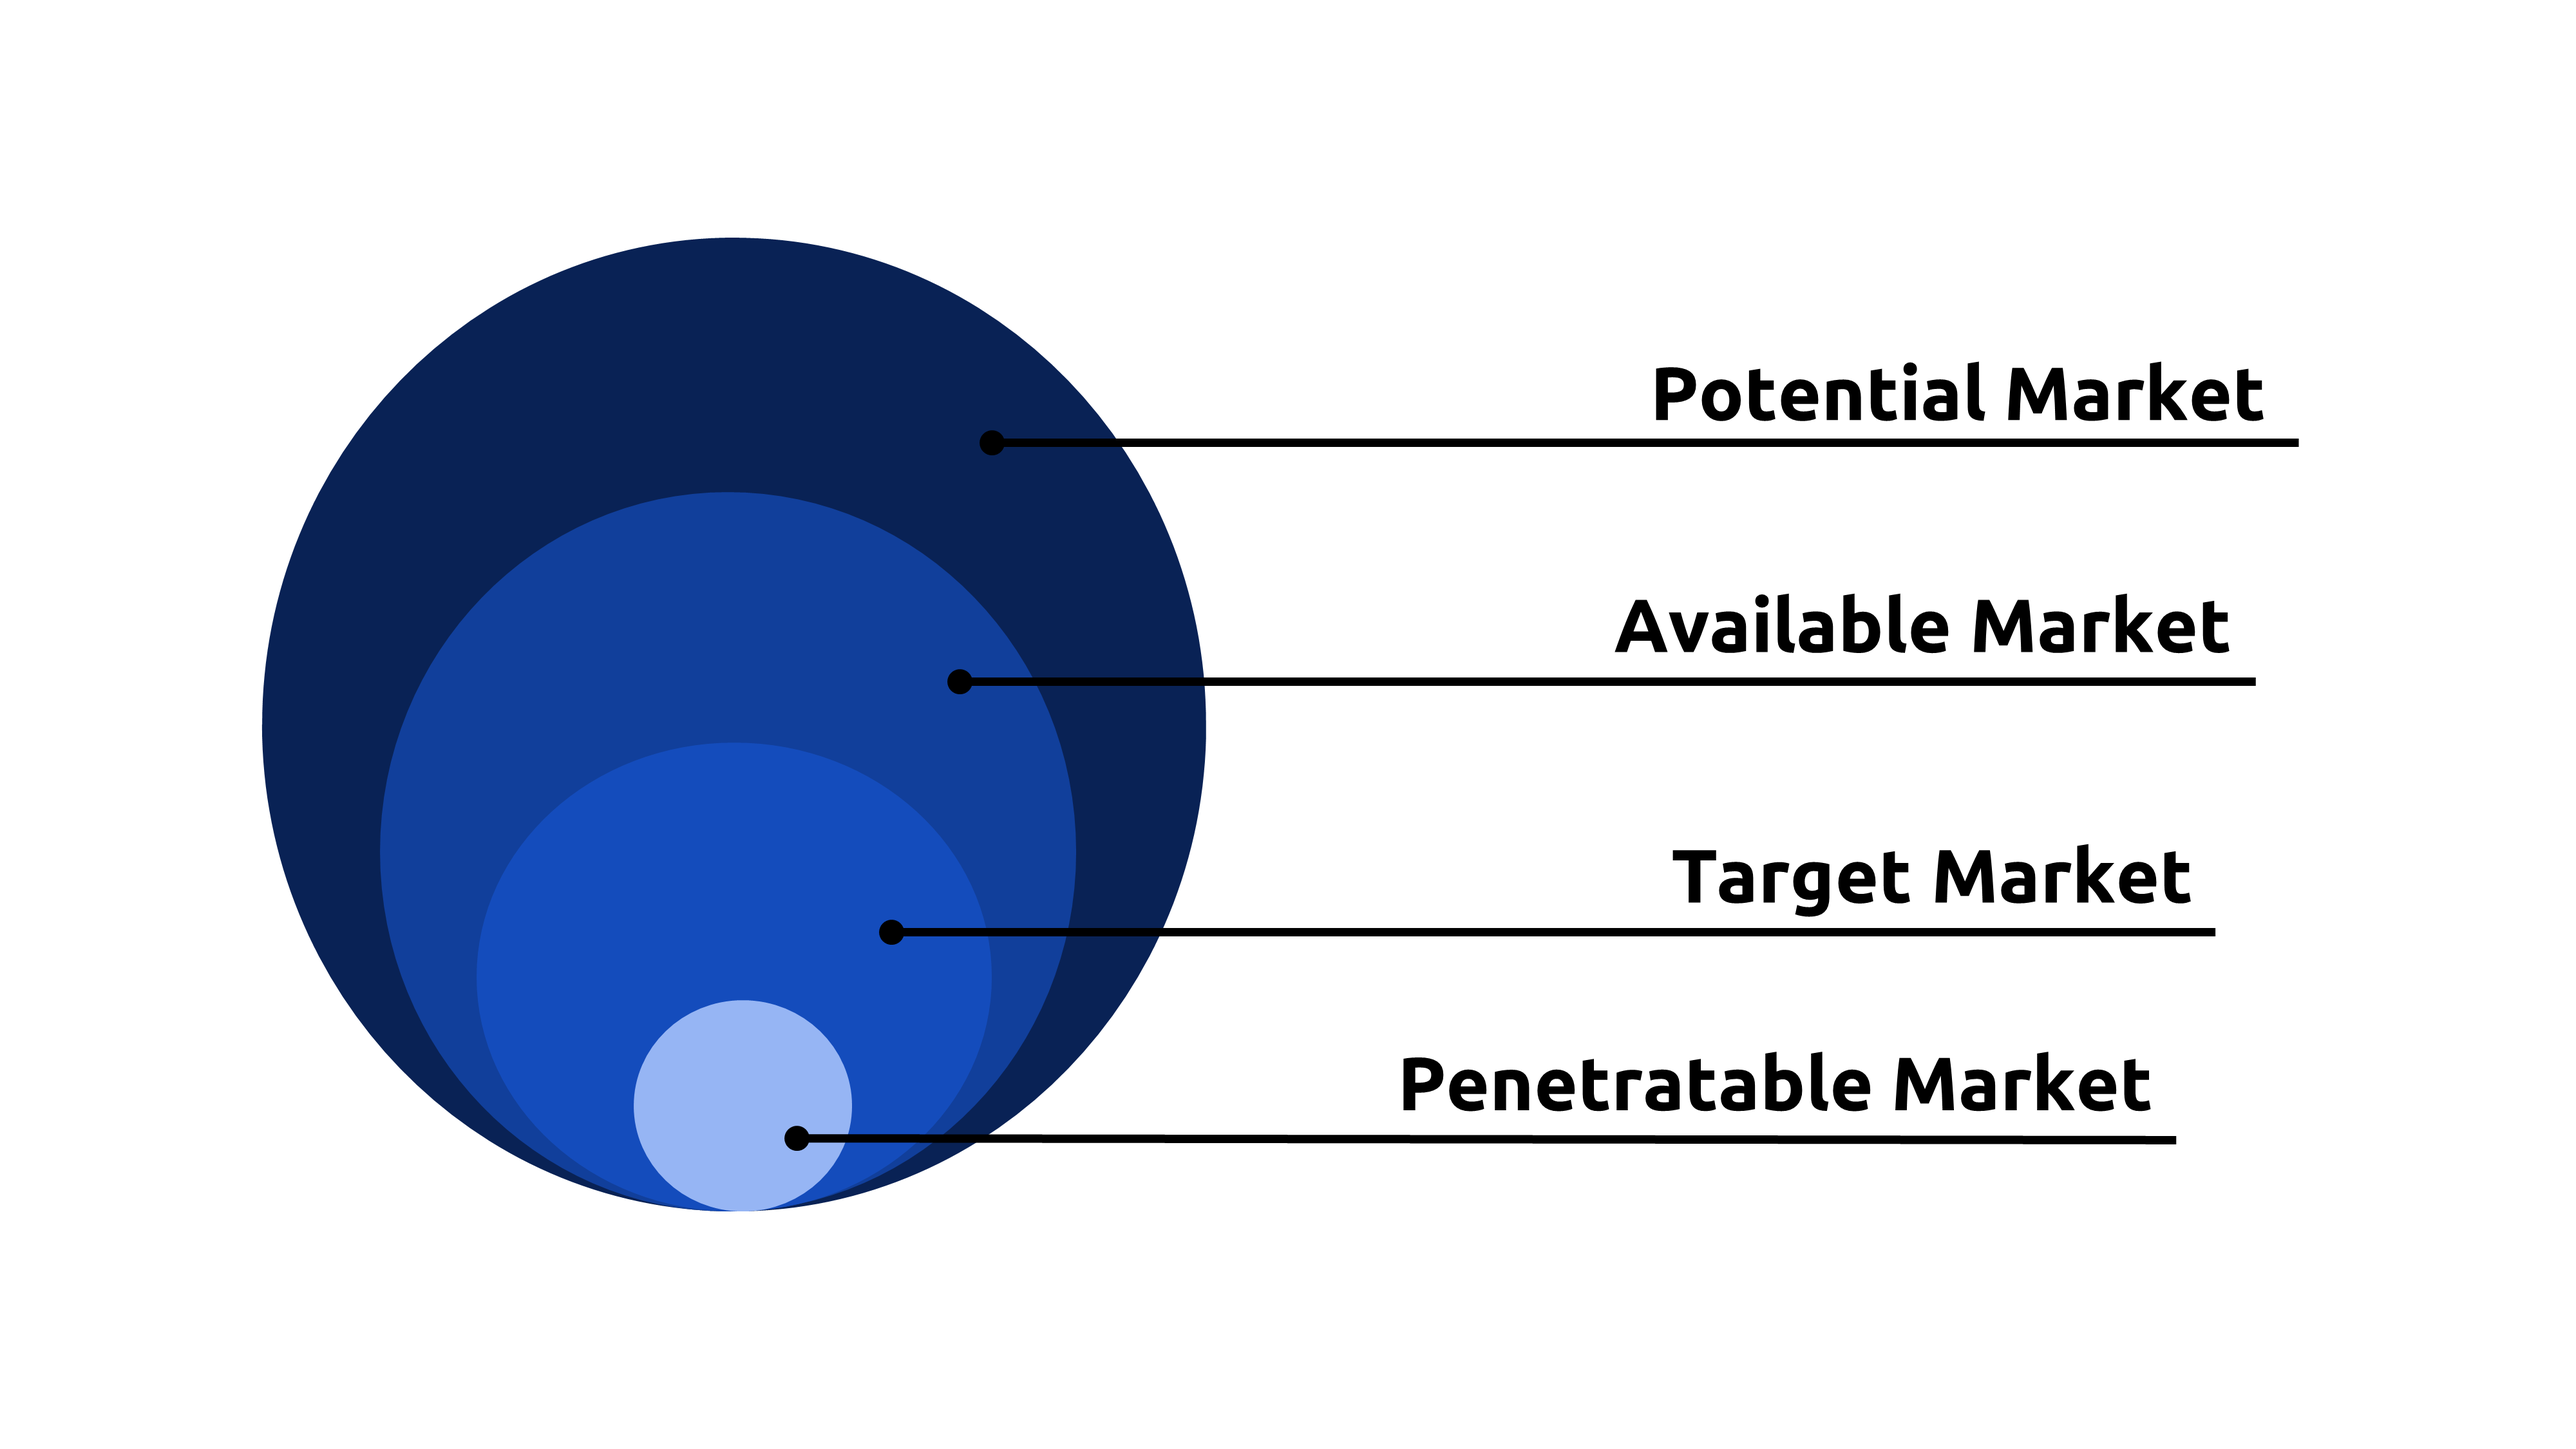
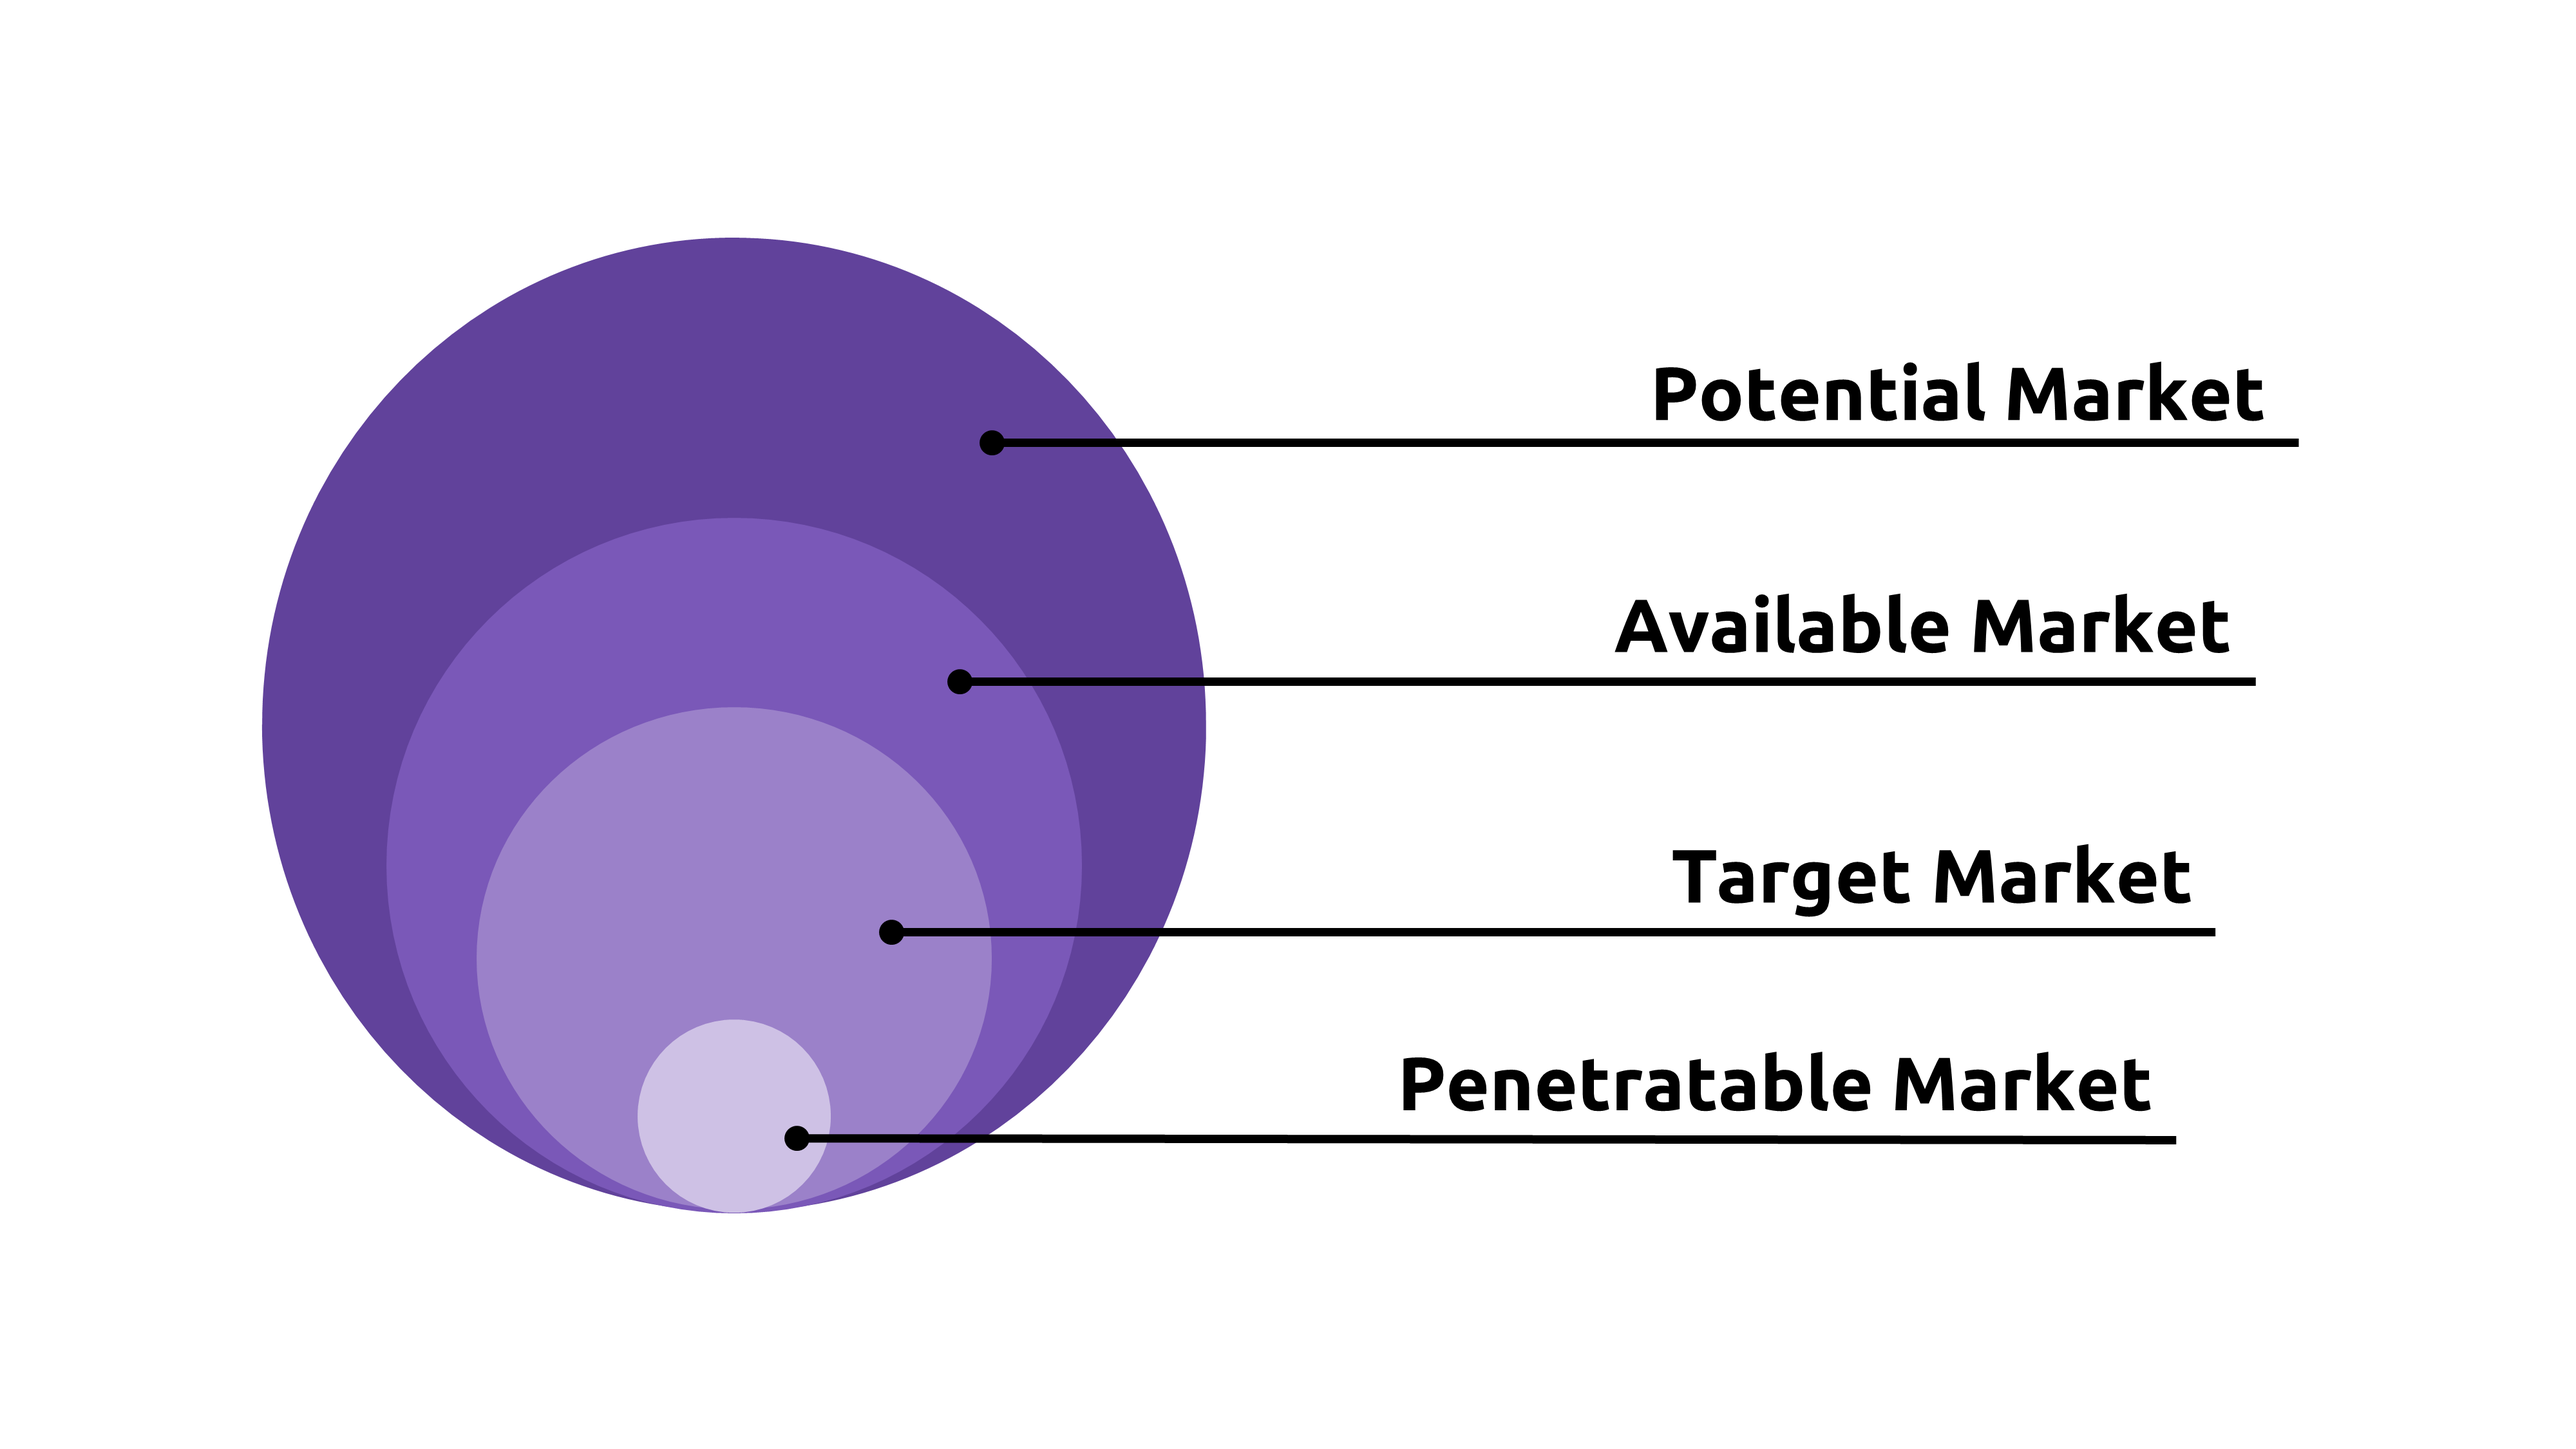
entrepreneurship page draft done

Changed region(s): [[0.0938, 0.1556, 0.4688, 0.84]]

diff --git a/IGEM_VERSION/entrepreneurship.html b/IGEM_VERSION/entrepreneurship.html
@@ -5,7 +5,7 @@
     <meta http-equiv="X-UA-Compatible" content="ie=edge">
     <title>Entrepreneurship</title>
     <link rel="stylesheet" href="https://2019.igem.org/wiki/index.php?title=Team:CMUQ/swipercss&action=raw&ctype=text/css">
-    <link rel="stylesheet" href="style.css">
+    <link rel="stylesheet" href="https://2019.igem.org/wiki/index.php?title=Template:CMUQ/css&action=raw&ctype=text/css">
 
 </head>
 <body>
@@ -29,23 +29,23 @@
 
             <!--Collapsible_______________________________________________________________________________________-->
             <div class="block collapsible alignWidth text-ubuntu blockNoHorizPadding">
-                <h1 class="blockTitle text-ubuntu">Market Analysis</h1>
+                <h1 class="blockTitle text-ubuntu ">Market Analysis</h1>
                 <img id="blockPicture" src="https://2019.igem.org/wiki/images/3/3e/T--CMUQ--MarketAnalysis.png">
                 <details class="noHorizontalPadding text-ubuntu">
                     <summary class="text-ubuntu">Potential Market</summary>
-                    <p class="text-ubuntu">Half of the World Population goes without access to basic, essential health care<sup><a name = "#ref1"> [1]</a></sup></p>
+                    <p class="text-ubuntu">Half of the World Population goes without access to basic, essential health care<sup><a href = "#ref1"> [1]</a></sup></p>
                 </details>
                 <details class="noHorizontalPadding text-ubuntu">
-                    <summary class="text-ubuntu">Available Market</summary>
-                    <p class="text-ubuntu">135.3 million people currently in need of humanitarian assistance</p>
+                    <summary class="text-ubuntu purple1Background">Available Market</summary>
+                    <p class="text-ubuntu">135.3 million people currently in need of humanitarian assistance<sup><a href = "#ref2"> [2]</a></sup></p>
                 </details>
                 <details class="noHorizontalPadding text-ubuntu">
-                    <summary class="text-ubuntu">Target Market</summary>
-                    <p class="text-ubuntu">97.9 million people within reach of humanitarian organizations</p>
+                    <summary class="text-ubuntu purple2Background">Target Market</summary>
+                    <p class="text-ubuntu">97.9 million people within reach of humanitarian organizations<sup><a href = "#ref3"> [3]</a></sup></p>
                 </details>
                 <details class="noHorizontalPadding text-ubuntu">
-                    <summary class="text-ubuntu">Penetrable Market</summary>
-                    <p class="text-ubuntu">13 million Syrian refugees by 2018</p>
+                    <summary class="text-ubuntu purple3Background">Penetrable Market</summary>
+                    <p class="text-ubuntu">13 million Syrian refugees by 2018 <sup><a href = "#ref4"> [4]</a></sup></p>
                 </details>
             </div>
             <!--Table________________________________________________________________________________________-->
@@ -114,16 +114,16 @@
                     <h1 class="blockTitle text-ubuntu refTitle">References</h1>
                     <ol class = "orderedList blockContent">
                         <li>
-                            <a href="https://www.kff.org/news-summary/more-than-half-of-world-population-goes-without-basic-essential-health-services-world-bank-who-report-says/" class="links blockContent text-ubuntu">Half of the World Population goes without access to basic, essential health care</a>
+                            <a href="https://www.kff.org/news-summary/more-than-half-of-world-population-goes-without-basic-essential-health-services-world-bank-who-report-says/" id = "ref1" class="links blockContent text-ubuntu">Half of the World Population goes without access to basic, essential health care</a>
                         </li>
                         <li>
-                            <a href="https://interactive.unocha.org/publication/globalhumanitarianoverview/" class="links blockContent text-ubuntu">135.3 million people currently in need of humanitarian assistance</a>
+                            <a href="https://interactive.unocha.org/publication/globalhumanitarianoverview/" id = "ref2" class="links blockContent text-ubuntu">135.3 million people currently in need of humanitarian assistance</a>
                         </li>
                         <li>
-                            <a href="https://interactive.unocha.org/publication/globalhumanitarianoverview/" class="links blockContent text-ubuntu">97.9 million people within reach of humanitarian organizations </a>
+                            <a href="https://interactive.unocha.org/publication/globalhumanitarianoverview/" id = "ref3" class="links blockContent text-ubuntu">97.9 million people within reach of humanitarian organizations </a>
                         </li>
                         <li>
-                            <a href="https://www.unrefugees.org/refugee-facts/statistics/" class="links blockContent text-ubuntu">13 million Syrian refugees by 2018</a>
+                            <a href="https://www.unrefugees.org/refugee-facts/statistics/" id = "ref4" class="links blockContent text-ubuntu">13 million Syrian refugees by 2018</a>
                         </li>
                     </ol>
                 </div>

diff --git a/IGEM_VERSION/style.css b/IGEM_VERSION/style.css
@@ -6,9 +6,9 @@
     --gold-color: #E4CD7D;
     --grey-color: #454545;
 
-    --purple-shade1: #113f9b;
-    --purple-shade2: #144cbc;
-    --purple-shade3: #96b5f4;
+    --purple-shade1: #7958bc;
+    --purple-shade2: #9b81c9;
+    --purple-shade3: #cec1e5;
 }
 html, body {
     width: 100%;
@@ -84,8 +84,36 @@ html, body {
 }
 
 .description .purpleBackground {
-    background-color: #61429B !important;
+    background-color: var(--purple-color) !important;
 }
+
+.description .purple1Background {
+    background-color: var(--purple-shade1) !important;
+}
+
+.description .purple2Background {
+    background-color: var(--purple-shade2) !important;
+}
+.description .purple3Background {
+    background-color: var(--purple-shade3) !important;
+}
+.description .whiteBackground {
+    background-color: #fff !important;
+}
+
+.description .purpleText {
+    color: var(--purple-color) !important;
+}
+.description .blueText {
+    color: var(--blue-color) !important;
+}
+.description .goldText {
+   color: var(--gold-color) !important;
+}
+.description .whiteText {
+    color:#fff !important;
+}
+
 .description .block.purpleBackground p, .description .block.purpleBackground h1 {
     color: #fff !important;
 }
